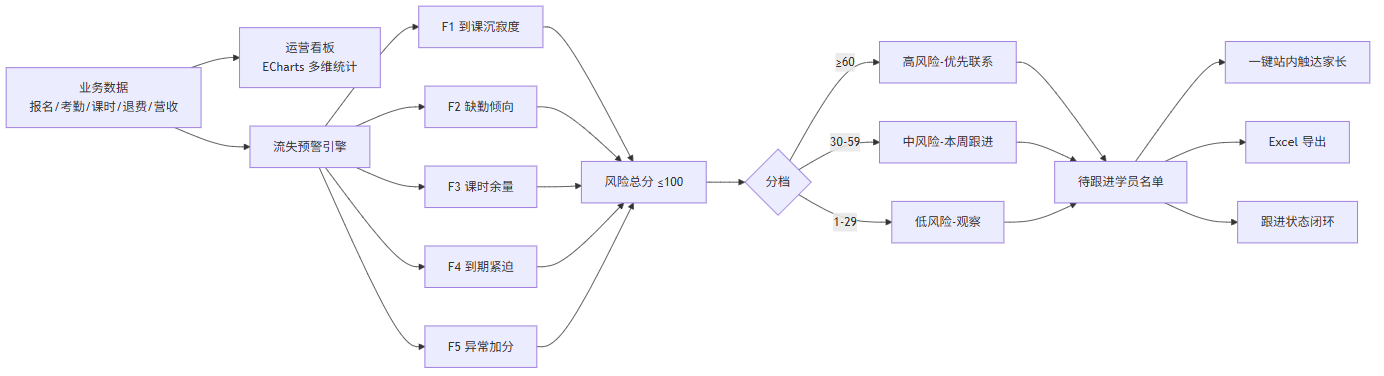
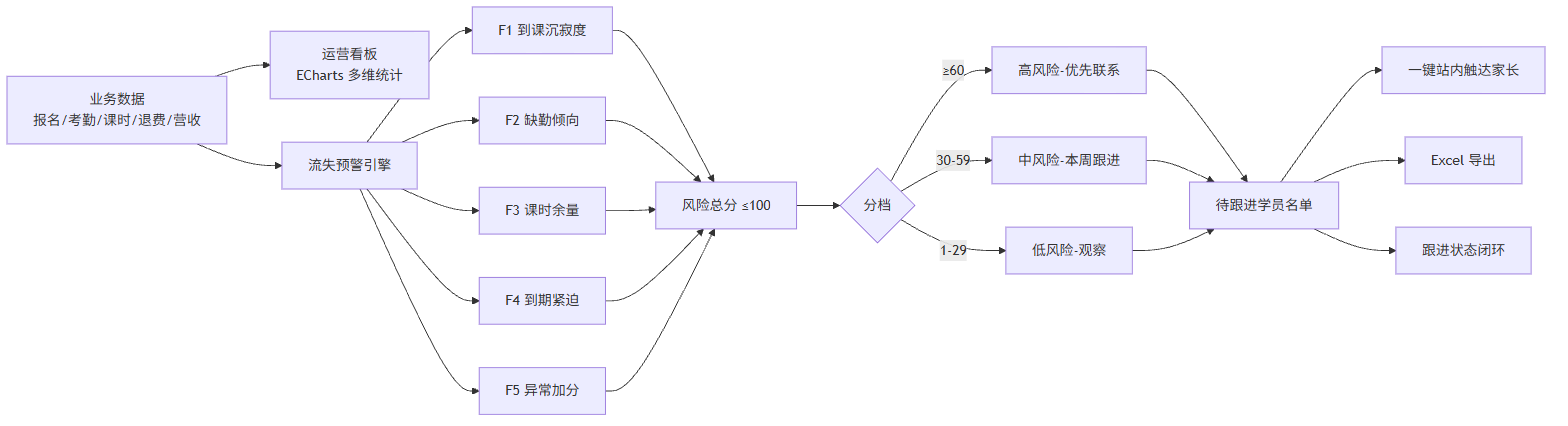
docs(paper): 课程设计报告 v1.3 同步 + 9 张配图重渲染
数据勘误（移动端测试 6->25、浏览器验收 69、部署系统 Ubuntu 26.04）；新增 2.5 系统部署架构与图 2.9；新增 3.7 移动端功能完善；新增 4.1 浏览器 AI 验收方法论；查重三段改写落地；fig2-1~2-9 统一为白底 2 倍缩放重渲染，fig2-4 图源由四维改为五维。

diff --git a/docs/paper/01-摘要与第1章-技术介绍及选型.md b/docs/paper/01-摘要与第1章-技术介绍及选型.md
@@ -6,7 +6,7 @@
 
 针对上述问题，本文设计并实现了面向艺术、兴趣类培训机构的全流程教务管理平台。系统采用前后端分离的 B/S 架构，管理后台基于 Vue 3 与 Element Plus 构建，移动端基于 uni-app 跨平台框架实现，后端采用 Spring Boot 3.2.5 与 MyBatis-Plus 3.5.7 提供统一业务接口，数据存储于 MySQL 8.0。系统覆盖招生报名、课程班级管理、智能排课与调课、课堂考勤、课时自动扣减、收费退费、教师薪资自动核算与运营数据统计的完整业务闭环，支持学员家长、授课教师、教务管理员、财务管理员与超级管理员五类角色协同工作。系统实现了基于多因子评分的学员流失预警模型，并以版本化迁移、加密备份、发布门禁与业务可观测性等手段保障系统的可靠性与安全性。
 
-系统采用 JUnit 5、Mockito 与 Vitest 建立分层测试体系，后端 464 个单元测试、管理端 118 个与移动端 6 个测试全部通过，并经浏览器验收确认主要业务流程可用。测试结果表明系统功能完备、并发控制可靠、权限隔离正确，能够满足艺术培训机构数字化教务管理需求。
+系统采用 JUnit 5、Mockito 与 Vitest 建立分层测试体系，后端 464 个单元测试、管理端 118 个与移动端 25 个测试全部通过，并经 69 条浏览器自动化验收用例确认五类角色主要业务流程可用。在完成测试验收后，系统已以容器化方式部署上线并在生产环境稳定运行。测试与运行结果表明系统功能完备、并发控制可靠、权限隔离正确，能够满足艺术培训机构数字化教务管理需求。
 
 **关键词**：教务管理；智能排课；课时管控；薪资核算；流失预警
 
@@ -18,7 +18,7 @@ With the rapid development of the art training industry, training institutions g
 
 To address these problems, this paper designs and implements a full-process educational administration management platform for art training institutions. The system adopts a front-end and back-end separated B/S architecture. The management console is built with Vue 3 and Element Plus, the mobile terminal is implemented with the uni-app cross-platform framework, and the back end uses Spring Boot 3.2.5 and MyBatis-Plus 3.5.7 to provide unified business APIs, with data stored in MySQL 8.0. The system covers a complete business closed loop including enrollment and payment, course and class management, intelligent scheduling and adjustment, class attendance, automatic lesson deduction, charges and refunds, automatic teacher salary accounting, and operational statistics, supporting collaboration among five roles: parents, teachers, educational administrators, financial administrators and super administrators. A multi-factor student churn warning model is implemented, and the reliability and security of the system are guaranteed by versioned database migration, encrypted backup, release gates and business observability.
 
-A layered testing system is established with JUnit 5, Mockito and Vitest. All 464 back-end unit tests, 118 admin-web tests and 6 mobile tests pass, and browser acceptance confirms that the main business processes are usable. Test results show that the system is functionally complete, reliable in concurrency control and correct in permission isolation, and can satisfy the digital educational administration needs of art training institutions.
+A layered testing system is established with JUnit 5, Mockito and Vitest. All 464 back-end unit tests, 118 admin-web tests and 25 mobile tests pass, and 69 browser-automation acceptance cases confirm that the main business processes of the five roles are usable. After acceptance testing, the system has been deployed and running in a production environment in a containerized manner. Test and operation results show that the system is functionally complete, reliable in concurrency control and correct in permission isolation, and can satisfy the digital educational administration needs of art training institutions.
 
 **Keywords**: Educational Administration; Intelligent Scheduling; Lesson Management; Salary Accounting; Churn Warning
 
@@ -30,27 +30,27 @@ A layered testing system is established with JUnit 5, Mockito and Vitest. All 46
 
 ### 1.1.1 前端框架 Vue 3 与 Element Plus
 
-Vue 3 是当前主流的渐进式前端框架，采用组合式 API（Composition API）与响应式数据模型，配合 Vite 开发服务器可实现模块热更新与快速构建。Element Plus 是基于 Vue 3 的桌面端组件库，提供表格、表单、弹窗、分页、日期选择等企业级组件，能够有效支撑教务、财务等管理场景下复杂表格与表单的快速开发。本系统管理后台采用 Vue 3 + Element Plus + Pinia 状态管理 + TypeScript 的组合，其中 Pinia 负责登录态、角色权限等全局状态的管理，TypeScript 为复杂数据模型提供静态类型保障。
+本系统选用 Vue 3 构建管理后台，主要面向课程、排课、财务等数据密集型页面。Vue 3 作为渐进式前端框架，其组合式 API（Composition API）与响应式数据模型更适合本系统横跨教务、财务多业务域时的复杂状态组织与逻辑复用，配合 Vite 开发服务器可获得模块热更新与快速构建体验。在此基础上，本系统选用 Element Plus 作为桌面端组件库，其表格、表单、弹窗、分页与日期选择等企业级组件契合中后台交互模式，有效支撑教务、财务等管理场景下复杂表格与表单的快速开发。管理后台整体采用 Vue 3 + Element Plus + Pinia 状态管理 + TypeScript 的组合，其中 Pinia 负责登录态、角色权限等全局状态的管理，TypeScript 为复杂数据模型提供静态类型保障。
 
 ### 1.1.2 跨平台框架 uni-app
 
-uni-app 是一套使用 Vue 语法开发跨平台应用的框架，一套代码可编译运行到 H5、微信小程序与 Android/iOS App 等多个平台。对于家长端与教师端这类以移动端高频轻量操作为主的场景，uni-app 能够显著降低多端重复开发成本。本系统移动端基于 uni-app 与 uView Plus 组件库实现家长端与教师端页面，业务规则统一由后端接口提供，保证各端数据一致。
+本系统选用 uni-app 实现移动端家长端与教师端。移动端使用者以学员家长与授课教师为主，其场景集中在课表查看、报名缴费、考勤打卡与消息接收等高频轻量操作，uni-app 以一套 Vue 语法代码即可编译运行到 H5、微信小程序与 Android/iOS App 等多个平台，能够显著降低多端重复开发成本。本系统移动端基于 uni-app 与 uView Plus 组件库实现家长端与教师端页面，业务规则统一由后端接口提供，两端口径一致，避免业务规则在移动端重复实现。
 
 ### 1.1.3 后端框架 Spring Boot 与 MyBatis-Plus
 
-Spring Boot 是当前主流的 Java 后端快速开发框架，遵循"约定优于配置"理念，通过自动装配与起步依赖大幅简化项目搭建。Spring Boot 3.2.5 基于 JDK 17，内置嵌入式 Web 容器，支持构建可独立运行的 JAR 包。MyBatis-Plus 是 MyBatis 的增强工具，在保留 MyBatis 灵活 SQL 能力的同时，提供通用 CRUD、逻辑删除、乐观锁、分页插件等开箱即用的能力，可有效减少业务层样板代码。本系统利用 MyBatis-Plus 的逻辑删除与乐观锁机制支撑课时账户、退费审核等关键数据的并发安全。
+本系统选用 Spring Boot 3.2.5 作为后端开发框架。Spring Boot 遵循"约定优于配置"理念，通过自动装配与起步依赖大幅简化工程搭建，其内置嵌入式 Web 容器支持构建可独立运行的 JAR 包，便于本系统以容器镜像方式进行生产化部署；Spring Boot 3.2.5 基于 JDK 17，生态成熟，可支撑定时任务、事件机制以及 Actuator 健康检查与指标暴露等能力，为本系统的业务调度、发布探针与可观测性建设提供基础。在持久层，本系统选用 MyBatis-Plus 3.5.7：它在保留 MyBatis 灵活 SQL 能力的同时，提供通用 CRUD、逻辑删除、乐观锁、分页插件等开箱即用的能力，可有效减少业务层样板代码。本系统利用 MyBatis-Plus 的逻辑删除与乐观锁机制，支撑课时账户、退费审核与薪资流转等关键数据的并发安全。
 
 ### 1.1.4 数据库 MySQL
 
-MySQL 是应用广泛的开源关系型数据库，支持 InnoDB 事务引擎与行级锁，具备良好的事务一致性与并发控制能力。本系统采用 MySQL 8.0 存储业务数据，共设计 37 张表覆盖用户权限、学员课程、排课调课、考勤学情、课时流水、财务薪资、考级通知与运营管理八大业务域。数据库结构变更通过 Flyway 版本化迁移管理，保证多环境数据库状态的一致性。
+本系统选用 MySQL 8.0 存储业务数据。MySQL 支持 InnoDB 事务引擎与行级锁，具备良好的事务一致性与并发控制能力，契合教务业务中课时扣减、退费回冲与薪资结算等操作对数据一致性的要求。本系统共设计 37 张表，覆盖用户权限、学员课程、排课调课、考勤学情、课时流水、财务薪资、考级通知与运营管理八大业务域；数据库结构变更通过 Flyway 版本化迁移管理，保证开发、测试与生产环境的数据库状态一致。
 
 ### 1.1.5 认证与安全技术 JWT
 
-JWT（JSON Web Token）是一种无状态的身份认证方案，服务端在登录成功后签发包含用户标识与角色信息的签名令牌，客户端在后续请求中携带该令牌，服务端验签后即可确认身份。相比传统 Session 方案，JWT 天然适合前后端分离架构与移动端场景。本系统使用 HMAC-SHA256 算法对 JWT 进行签名，通过自定义拦截器统一完成令牌校验与基于角色的接口鉴权。
+本系统选用 JWT 作为身份认证方案。本系统采用前后端分离架构，并区分管理后台与移动端两类客户端，JWT 作为无状态认证方案，由服务端在登录成功后签发包含用户标识与角色信息的签名令牌，客户端在后续请求中携带该令牌、服务端验签后即可确认身份，天然适合本系统的多端场景，无需在服务端维护会话状态。本系统使用 HMAC-SHA256 算法对 JWT 进行签名，通过自定义拦截器统一完成令牌校验与基于角色的接口鉴权，实现五类角色的权限隔离。
 
 ### 1.1.6 数据可视化与报表技术 ECharts、Apache POI
 
-ECharts 是基于 JavaScript 的开源可视化图表库，提供折线图、柱状图、饼图等丰富图表类型。本系统使用 ECharts 在运营数据看板中呈现月度课时趋势、营收趋势与到课率趋势等统计图表。Apache POI 是 Java 处理 Office 文档的开源类库，本系统基于其 SXSSF 组件实现收费台账、课时消耗、薪资结算等报表的 Excel 导出。
+本系统选用 ECharts 与 Apache POI 支撑运营看板的可视化呈现与报表导出。ECharts 是基于 JavaScript 的开源可视化图表库，提供折线图、柱状图、饼图等丰富图表类型，本系统使用其在运营数据看板中呈现月度课时趋势、营收趋势与到课率趋势等统计图表；Apache POI 是 Java 处理 Office 文档的开源类库，本系统基于其 SXSSF 组件（面向大数据量导出的流式写入方式）实现收费台账、课时消耗、薪资结算与流失预警名单等报表的 Excel 导出。
 
 ## 1.2 技术选型
 
@@ -58,19 +58,19 @@ ECharts 是基于 JavaScript 的开源可视化图表库，提供折线图、柱
 
 ### （1）前端：Vue 3 + Element Plus（管理后台）与 uni-app（移动端）
 
-选择 Vue 3 作为管理后台基础框架，主要基于以下考虑：其一，Vue 3 的组合式 API 相比选项式 API 更适合复杂业务逻辑的组织与复用，配合 TypeScript 可显著提升可维护性；其二，Element Plus 组件库与后台管理系统常见的中后台交互模式高度契合，可快速搭建课程管理、排课、财务等数据密集型页面；其三，Vue 3 与 Vite 构建工具的搭配能提供流畅的开发体验。
+选择 Vue 3 作为管理后台基础框架，主要基于以下考虑：其一，Vue 3 的组合式 API 相比选项式 API 更适合复杂业务逻辑的组织与复用，本系统的排课大课表、薪资核算等页面需在单一页面内管理课次、教师、教室与金额等多组联动状态，组合式 API 配合 TypeScript 可显著提升这类页面的可维护性；其二，Element Plus 组件库与后台管理系统常见的中后台交互模式高度契合，本系统课程管理、排课、财务等数据密集型页面正是依托其表格、分页、日期选择等组件快速搭建；其三，Vue 3 与 Vite 5 构建工具的搭配能提供流畅的开发体验。
 
-移动端选择 uni-app，主要基于以下考虑：首先，家长与教师的使用场景以移动端高频轻量操作为主，uni-app 支持一套代码同时发布 H5 与微信小程序，覆盖成本低；其次，uni-app 使用 Vue 语法，与团队的技术栈保持一致，降低学习与维护成本；最后，家长端与教师端通过统一的后端接口与 Web 管理后台交互，避免业务规则在两端重复实现。
+移动端选择 uni-app，主要基于以下考虑：首先，家长与教师的使用场景以移动端高频轻量操作为主，uni-app 支持一套代码同时发布 H5 与微信小程序，覆盖成本低；其次，uni-app 使用 Vue 语法，与本系统管理后台的技术栈保持一致，降低学习与维护成本；最后，家长端与教师端通过统一的后端接口与 Web 管理后台交互，本系统的报名决策快照、请假审批状态等业务规则仅在后端实现一次，避免业务规则在两端重复实现以及由此产生的数据口径不一致。
 
 ### （2）后端：Spring Boot + MyBatis-Plus
 
-选择 Spring Boot 作为后端开发框架，主要基于以下考虑：首先，Spring Boot"约定优于配置"的开发模式能大幅减少配置样板代码，通过起步依赖与自动装配快速完成工程搭建；其次，Spring Boot 3.x 基于 JDK 17，生态成熟，提供定时任务、事件机制、Actuator 健康检查与指标暴露等能力，为业务调度、发布探针与可观测性建设提供支持；最后，其内置 Web 容器使系统可以构建为独立运行的 JAR 包，便于容器化部署。
+选择 Spring Boot 作为后端开发框架，主要基于以下考虑：首先，Spring Boot"约定优于配置"的开发模式能大幅减少配置样板代码，通过起步依赖与自动装配快速完成工程搭建；其次，Spring Boot 3.x 基于 JDK 17，生态成熟，提供定时任务、事件机制、Actuator 健康检查与指标暴露等能力，本系统的流失预警定时统计、发布健康探针与业务可观测性正是基于这些能力建设；最后，其内置 Web 容器使系统可以构建为独立运行的 JAR 包，便于以容器镜像方式进行生产化部署，本系统生产环境即以上述 JAR 容器方式运行。
 
-在持久层框架方面，选择 MyBatis-Plus 作为 ORM 框架，主要基于以下考虑：MyBatis-Plus 在保留手写 SQL 灵活性的同时，提供通用 CRUD、逻辑删除、乐观锁、分页插件等能力，能够显著减少数据访问层样板代码；其乐观锁机制为本系统课时扣减、薪资结算等"读-改-写"型并发操作提供了统一的并发控制手段。
+在持久层框架方面，选择 MyBatis-Plus 作为 ORM 框架，主要基于以下考虑：MyBatis-Plus 在保留手写 SQL 灵活性的同时，提供通用 CRUD、逻辑删除、乐观锁、分页插件等能力，能够显著减少数据访问层样板代码；其乐观锁机制为本系统课时扣减、快速调课、薪资结算等"读-改-写"型并发操作提供了统一的并发控制手段——本系统快速调课即在乐观更新条件中追加"原日期与原起止时间"，解决了同状态并发编辑相互覆盖的问题。
 
 ### （3）数据库：MySQL 8.0
 
-选择 MySQL 作为数据库管理系统，主要基于以下考虑：首先，MySQL 作为开源数据库无需许可费用，成本可控；其次，MySQL 在 Web 应用中生态成熟，InnoDB 引擎的事务与行级锁能力满足教务业务对数据一致性的要求；最后，本系统单机部署的规模下，MySQL 的性能与运维复杂度均处于合适区间，配合 Flyway 可实现对 37 张表结构的版本化管理。
+选择 MySQL 作为数据库管理系统，主要基于以下考虑：首先，MySQL 作为开源数据库无需许可费用，成本可控；其次，MySQL 在 Web 应用中生态成熟，InnoDB 引擎的事务与行级锁能力满足教务业务对数据一致性的要求；最后，本系统单机部署的规模下，MySQL 的性能与运维复杂度均处于合适区间，配合 Flyway 可实现对 37 张表结构的版本化管理，本系统生产环境即通过 Flyway 完成基线建立与增量迁移。
 
 ### （4）辅助技术
 
@@ -80,10 +80,10 @@ ECharts 是基于 JavaScript 的开源可视化图表库，提供折线图、柱
 
 ② 状态管理：管理后台使用 Pinia 管理登录用户信息、角色码与权限集，页面依据角色动态渲染可操作入口，实现前后端双重的权限控制；
 
-③ 数据库迁移：使用 Flyway 对数据库结构变更进行版本化管理，生产环境启动时自动执行迁移脚本，保证开发、测试与生产环境的数据库结构一致；
+③ 数据库迁移：使用 Flyway 对数据库结构变更进行版本化管理，生产环境启动时自动执行迁移脚本，本系统生产环境据以完成基线版本建立与增量迁移，保证开发、测试与生产环境的数据库结构一致；
 
 ④ 可视化与导出：使用 ECharts 呈现运营统计图表，使用 Apache POI（SXSSF）实现收费台账、课时消耗、薪资结算与流失预警名单的 Excel 报表导出；
 
 ⑤ 开发与构建工具：后端使用 Maven 3.9 管理依赖与构建，管理后台使用 Vite 5 与 npm 完成开发与构建，移动端使用 uni-app CLI 构建 H5 与小程序产物；
 
-⑥ 测试工具：后端使用 JUnit 5 与 Mockito 建立单元测试体系，管理后台使用 Vitest 与 Vue Test Utils 建立组件测试体系，移动端使用 Vitest 对报名决策等核心逻辑进行测试。
+⑥ 测试工具：后端使用 JUnit 5 与 Mockito 建立单元测试体系，管理后台使用 Vitest 与 Vue Test Utils 建立组件测试体系，移动端使用 Vitest 对报名决策快照、课表摘要、请假状态与未读角标等核心纯逻辑进行测试。

diff --git a/docs/paper/03-第3章-系统功能实现.md b/docs/paper/03-第3章-系统功能实现.md
@@ -44,7 +44,7 @@ public ParentEnrollmentSnapshotVO getParentEnrollmentSnapshot(Long parentUserId,
 
 ### 3.2.1 智能排课与冲突检测
 
-教务管理员创建课程、班级与课节时段后，可对班级执行批量排课（按班级上课频次批量生成课次）或自动排课（根据教室、教师、班级的空闲时间自动安排课次）。系统提供独立的冲突检测服务，从教师（同一教师同一时间冲突）、教室（同一教室同一时间冲突）、班级（同一班级同一时间冲突）与学员（学员跨班时间冲突）四个维度进行检测，冲突结果以中文提示返回前端即时展示。
+教务管理员创建课程、班级与课节时段后，可对班级执行批量排课（按班级上课频次批量生成课次）或自动排课（根据教室、教师、班级的空闲时间自动安排课次）。系统提供独立的冲突检测服务，从教师（同一教师同一时间冲突）、教室（同一教室同一时间冲突）、教室预约（与考试、教研活动等非常规占用冲突）、班级（同一班级同一时间冲突）与跨班学员（学员跨班时间冲突）五个时间交叉维度进行检测，冲突结果以中文提示返回前端即时展示。
 
 排课管理页面与大课表页面如图 3.4、图 3.5 所示。
 
@@ -178,12 +178,90 @@ private int scoreF1(RiskStudentFacts facts) {
 }
 ```
 
-流失预警面板作为运营看板的独立页签呈现，与月度流失率统计口径分离、互为补充。教务与超管视角看板界面如图 3.14、图 3.15 所示。
+流失预警面板作为运营看板的独立页签呈现，与月度流失率统计口径分离、互为补充。教务与超级管理员视角看板界面如图 3.14、图 3.15 所示。
 
 ![图3.14 教务视角运营看板](../evidence/2026-07-20/edu-admin-dashboard.png)
 
 图 3.14  教务视角运营看板界面
 
-![图3.15 超管视角运营看板](../evidence/2026-07-20/super-admin-dashboard.png)
+![图3.15 超级管理员视角运营看板](../evidence/2026-07-20/super-admin-dashboard.png)
 
 图 3.15  超级管理员视角运营看板界面
+
+## 3.7 移动端功能完善
+
+管理后台功能成型后，系统在迭代优化中着重补齐移动端的能力与信息丰富度，使学员家长与授课教师能将移动端作为日常主入口。本节的四项完善均以"补齐移动端旅程断点、提升家长端与教师端信息对等度"为出发点。
+
+### 3.7.1 教师端学员请假审批
+
+家长端此前已支持提交学员请假申请，但请假申请只能由教务管理员在管理后台处理，授课教师在移动端没有审批入口，形成"家长能提交、教师不能处理"的旅程断点；而后端其实已经具备面向教师的请假查询与审批接口，只是移动端未加消费，属于"接口已备、入口缺失"的功能空洞。为打通"家长提交请假 → 教师审批 → 家长可见结果"的完整旅程，系统在移动端为授课教师补齐了请假审批能力。
+
+教师端新增"学员请假审批"页：进入页面后拉取本班学员的请假列表，列表项展示学员姓名、请假日期、请假原因与状态标签；对处于"待审核"状态的申请，教师可执行"通过"或"驳回"操作，驳回时填写备注（不超过 200 字）。审批的安全性由后端保证：查询接口仅返回该教师授课班级内、在班学员的请假记录，审批接口在更新前二次校验"该教师确在学员请假日期有授课课次"，越权审批会被拒绝；审批本身采用乐观条件更新（仅待审核记录可被更新），并发重复审批时更新行数为 0 并返回冲突提示，避免同一申请被重复处理。审批通过后，家长端该条请假记录即显示"已通过"及备注。审批服务核心实现如下：
+
+```java
+// 教师审批：归属校验 + CAS(status=待审核) 防止重复处理
+int updated = leaveRequestMapper.update(null, new LambdaUpdateWrapper<LeaveRequest>()
+        .eq(LeaveRequest::getId, id)
+        .eq(LeaveRequest::getStatus, 1)            // 仅待审核可被处理
+        .set(LeaveRequest::getStatus, status)      // 2 通过 / 3 驳回
+        .set(LeaveRequest::getAuditUserId, teacherId)
+        .set(LeaveRequest::getAuditRemark, remark));
+if (updated == 0) {
+    throw new BusinessException(409, "该请假申请已被处理，请刷新后重试");
+}
+```
+
+### 3.7.2 课表 Tab 真实化与教师课表富信息
+
+移动端底部"课表"主 Tab 此前仅负责跳转、内容恒为"今天没有课程安排"，是一个高频入口的空壳页，与家长端、教师端已有的课表能力不对等；同时教师端课表页只显示"班级 ID / 教室 ID"这类裸编号，不显示课程名、班级名与状态，信息丰富度明显低于家长端课表。
+
+系统在迭代优化中将课表 Tab 重构为按角色自适应的真实课表页：家长进入时加载当前学员的课表，教师进入时加载本人授课课次，页面统一过滤出"今日及未来 7 天"的课次并按日期分组、今日课次高亮；有课时展示课程名、班级名、时间与状态，无课时展示真实空态并保留"查看完整课表"入口，不再出现恒显示无课的伪内容。教师端课表页同步补齐信息，展示课程名、班级名、教室名、上课时间与状态，移除裸编号展示，点击待上课课次可直接进入课堂考勤。为支撑教师课表的教室名展示，后端课次查询服务补充了教室名称回填（复用已有的教室数据访问），一处改动同时服务课表 Tab 与教师课表页。日期过滤与分组逻辑被抽离为可复用的纯函数，便于后续维护与测试。核心实现如下：
+
+```java
+// 课次展示信息回填：批量查询教室名，补齐 classroomName
+Map<Long, String> classroomNameMap = classroomIds.isEmpty() ? Collections.emptyMap()
+        : classroomMapper.selectBatchIds(classroomIds).stream()
+            .collect(Collectors.toMap(Classroom::getId, Classroom::getName, (a, b) -> a));
+// 遍历课次时逐一回填：
+lesson.setClassroomName(classroomNameMap.getOrDefault(lesson.getClassroomId(), ""));
+```
+
+```javascript
+// 课表日期分组（纯函数）：按 lessonDate 升序返回 [{ date, lessons }]
+export function groupLessonsByDate(lessons) {
+  const map = new Map()
+  for (const l of lessons) {
+    const d = String(l && l.lessonDate).substring(0, 10)
+    if (!map.has(d)) map.set(d, { date: d, lessons: [] })
+    map.get(d).lessons.push(l)
+  }
+  return Array.from(map.values()).sort((a, b) => (a.date < b.date ? -1 : a.date > b.date ? 1 : 0))
+}
+```
+
+### 3.7.3 消息未读角标
+
+移动端的调课通知、上课提醒、课时不足与机构公告等消息此前只能在进入消息中心后逐条查看，入口本身没有任何未读提示，用户容易错过关键提醒。
+
+系统为消息入口增加未读角标：移动端在首页与消息页显示时拉取当前用户的未读消息数，数量大于 0 时在"消息"Tab 上以数字红点展示（超过 99 显示"99+"），无未读时移除角标；用户打开消息中心或点开单条消息后重新拉取未读数，角标随之更新。未读数查询为全角色通用端点，家长、教师与教务共用同一实现。角标文案由独立纯函数负责，便于统一口径与测试，核心逻辑如下：
+
+```javascript
+// 未读角标文案与显示判定（纯函数）
+export function formatBadge(n) {
+  const num = Number(n) || 0
+  return num > 99 ? '99+' : String(num)
+}
+export function shouldShowBadge(n) {
+  return (Number(n) || 0) > 0
+}
+```
+
+### 3.7.4 家长端学情上下文补全
+
+家长端学情页此前在考勤记录中只显示"课次 ID"，家长看到的是没有业务含义的编号，无法判断孩子是在"哪一天、哪门课、哪个班"的表现如何。
+
+系统将家长端学情页的考勤行由展示课次编号改为展示后端已返回的课次上下文信息（格式为"班级 日期 时间"），家长可直观看到每一条考勤对应的具体课次；作业与评语在接口返回课程、日期信息时一并展示。该改动为纯前端展示层调整，业务数据口径与后端保持一致，不改变任何业务规则。
+
+### 3.7.5 移动端纯逻辑单元测试
+
+为延续系统的测试纪律，本次移动端补充/改动涉及的纯逻辑均被抽离为独立模块并配以单元测试，包括报名决策快照、课表摘要（日期过滤与分组）、请假状态文案与审批可操作性判定、未读角标文案与显示判定等，共同构成 4 个测试文件、25 个用例的移动端测试集，确保移动端的核心展示逻辑可回归、可验证。

diff --git a/docs/paper/04-第4章-测试与总结.md b/docs/paper/04-第4章-测试与总结.md
@@ -8,13 +8,15 @@
 
 | 项目 | 环境 |
 |------|------|
-| 操作系统 | Windows 11（开发）、Ubuntu 22.04（部署） |
+| 操作系统 | Windows 11（开发）、Ubuntu 26.04（部署） |
 | 后端运行环境 | JDK 17、Spring Boot 3.2.5 内置 Tomcat |
 | 数据库 | MySQL 8.0（生产）；H2（测试内存库） |
 | 前端 | Node.js 22、Vite 5 |
 | 单元测试框架 | JUnit 5 + Mockito + AssertJ（后端）；Vitest + Vue Test Utils（前端） |
 
 系统采用分层测试策略：后端对 20 个核心业务 Service 类实现全覆盖的 Mockito 单元测试，并引入 H2 内存数据库执行 Spring 上下文加载冒烟测试；管理后台对各页面组件与纯逻辑模块（排课拖拽逻辑、流失预警面板等）进行组件测试；移动端对报名决策快照等核心纯逻辑进行单元测试；此外通过自动化接口测试覆盖五类角色的授权端点与越权拒绝场景，并通过浏览器自动化执行主要业务流验收。
+
+在分层测试之外，系统在首次生产上线后组织了一轮面向真实部署环境的浏览器验收测试，用于验证五类角色在实际部署形态下的主要业务流程。该轮测试共设计 69 条用例，按优先级分为 P0（核心主流程）33 条、P1（重要功能）32 条、P2（增强项）4 条，覆盖登录与权限隔离、超级管理员、教务管理员、财务管理员、授课教师、学员家长、越权与安全以及移动端专项八个模块。测试方法遵循两条硬性约束：其一，测试手段限定为界面操作（打开页面、点击、输入、切换、拖拽、上传、截图），不允许以调用后端接口或直连数据库作为获取预期结果的手段，从而模拟真实用户的使用路径；其二，断言以视觉识别为主、DOM 定位为辅，判定结论以截图中可读到的文字、颜色、数值与元素可见性为准，而非依赖接口返回值。最终 69 条用例全部通过，覆盖率达 100%。为交叉验证写操作的真实效果，测试还通过数据库对新增缴费记录、课时流水、退费回滚与课时账户最终态等记录逐项对账，结果与界面表现完全吻合，证明系统的乐观并发控制与账实一致性符合预期。
 
 ## 4.2 系统功能测试
 
@@ -82,19 +84,19 @@
 |---------|------|:---:|:---:|
 | 后端单元测试 | 20 个核心业务 Service 全覆盖 | 464 | 全部通过 |
 | 管理后台组件测试 | 26 个测试文件 | 118 | 全部通过 |
-| 移动端逻辑测试 | 报名决策快照等 | 6 | 全部通过 |
+| 移动端逻辑测试 | 报名决策快照、课表摘要、请假状态、未读角标等纯逻辑 | 25 | 全部通过 |
 | 接口与权限测试 | 五角色授权矩阵 | 38（32 授权 + 6 越权） | 全部通过 |
-| 浏览器验收 | 主要业务流程 | — | 通过，无阻断问题 |
+| 浏览器验收 | 五角色主要业务流程（浏览器自动化 + 视觉断言） | 69 | 全部通过 |
 
-测试结果表明：系统功能完整覆盖任务书要求，报名审核、排课调课、考勤课时扣减、薪资核算与流失预警等核心业务正确；快速调课、退费、薪资流转等并发路径防护有效；五类角色权限隔离正确，越权访问被拒绝；系统可靠性机制（迁移、备份、发布门禁、可观测性）完备。系统达到可交付运行状态。
+测试结果表明：系统功能完整覆盖任务书要求，报名审核、排课调课、考勤课时扣减、薪资核算与流失预警等核心业务正确；快速调课、退费、薪资流转等并发路径防护有效；五类角色权限隔离正确，越权访问被拒绝；系统可靠性机制（迁移、备份、发布门禁、可观测性）完备。系统达到可交付运行状态，并已在生产环境完成容器化部署上线、持续稳定运行，实现了从开发、测试到上线运行的完整交付。
 
 # 总  结
 
-本次课程设计完成了基于 Vue 3 + uni-app + Spring Boot + MySQL 架构的艺术培训机构全流程教务管理平台的设计与实现。系统覆盖招生报名、课程班级、智能排课与调课、课堂考勤、课时自动扣减、收费退费、教师薪资自动核算、学情考级与运营数据统计的完整业务闭环，支持家长、教师、教务、财务与超级管理员五类角色协同工作，满足了艺术培训机构数字化教务管理的实际需求。
+本次课程设计完成了基于 Vue 3 + uni-app + Spring Boot + MySQL 架构的艺术培训机构全流程教务管理平台的设计与实现。系统覆盖招生报名、课程班级、智能排课与调课、课堂考勤、课时自动扣减、收费退费、教师薪资自动核算、学情考级与运营数据统计的完整业务闭环，支持学员家长、授课教师、教务管理员、财务管理员与超级管理员五类角色协同工作，满足了艺术培训机构数字化教务管理的实际需求。系统在完成功能开发与分层测试后，已通过容器化方式完成生产环境部署并稳定运行，实现了从需求分析、设计实现、测试验收到生产上线的完整交付。
 
 在系统设计与实现过程中，主要解决了以下几方面问题：其一，针对移动端报名场景的多接口串行请求与决策数据不一致问题，设计了"报名决策快照 + If-Match 版本校验"的一致性方案；其二，针对教务排课的易用性问题，实现了大课表拖拽快速调课，并通过"状态 + 旧时间"复合乐观条件解决了同状态并发编辑相互覆盖的问题；其三，针对教师薪资人工核算易错问题，建立了按课程薪资规则自动核算并配合状态机与并发控制的核算体系；其四，针对机构运营"只看历史、难防流失"的问题，实现了可解释的多因子流失预警引擎，将统计升级为决策；其五，引入 Flyway 版本化迁移、加密备份恢复、发布门禁与业务可观测性等手段，提升了系统的可靠性与可维护性。
 
-同时，系统仍存在一些不足之处。首先，在功能层面，当前支付与短信通知为模拟实现，尚未接入真实支付网关与短信服务商；其次，在性能层面，系统当前为单机部署，未引入缓存层，面对较大并发时存在优化空间；最后，在智能化层面，流失预警采用规则打分而非机器学习模型，后续可基于积累数据引入更精细的流失预测算法。上述不足将作为后续改进方向，不断完善系统功能与性能。
+同时，系统仍存在一些不足，这些不足同时也指明了后续的改进方向。首先，在功能层面，当前支付与短信通知为模拟实现，尚未接入真实支付网关与短信服务商；后续计划以适配器方式接入第三方支付网关与短信服务商，复用系统既有的通知外发通道抽象，使缴费与提醒由模拟转为真实投递。其次，在性能与架构层面，系统当前为单机部署，报名决策快照以 5 分钟 TTL 缓存在单机内存中，在多实例部署时无法共享；后续计划将快照缓存迁移至 Redis 分布式缓存，并配合共享并发控制支撑后端多实例水平扩展。最后，在智能化层面，流失预警当前为可解释的多因子规则打分而非机器学习模型；后续可基于系统持续积累的报名、考勤、课时与退费数据，在规则打分的基础上引入机器学习模型，实现更精细的流失预测，同时保留现有规则作为可解释的兜底。上述不足将作为后续改进方向，在保证系统稳定运行的前提下逐步完善。
 
 # 参考文献
 

diff --git a/docs/paper/07-校对与查重预检报告.md b/docs/paper/07-校对与查重预检报告.md
@@ -15,7 +15,7 @@
 
 ## 二、编号与格式核验（结果全部通过）
 
-- 图号连续性：图 2.1~2.8、图 3.1~3.15 全部连续无跳号
+- 图号连续性：图 2.1~2.9、图 3.1~3.15 全部连续无跳号（图 2.9 系统部署架构图为本轮新增）
 - 表号连续性：表 2.1~2.2、表 4.1~4.6、表 A.1~A.2 全部连续
 - 第 3 章 15 张截图路径全部有效（screenshots/ + evidence/2026-07-20/）
 - 参考文献 8 篇与任务书指定 8 篇**逐条一致**（作者/题名/来源/年份/页码），正文按引用语境映射到对应章节
@@ -52,5 +52,42 @@
 
 1. 用学校查重系统（知网/维普）跑 1 次预检 → 按报告 3.1 三段改写 → 再跑终检
 2. 排版阶段由 Word 模板补齐：封面、目录、页眉页脚、图题表题字体规范
-3. 图 2.1~2.8 已渲染 PNG（figures/）可直接嵌入；15 张截图在 screenshots/evidence 目录
+3. 图 2.1~2.9 为 Mermaid 成稿（排版阶段渲染/转图即可，图 2.9 为本轮新增部署架构图）；15 张截图在 screenshots/evidence 目录
 4. 全文约 2.2 万字符（约 1.6 万汉字），对照学院字数要求确认（示例体例一般 1.5-2 万字达标）
+
+## 五、本轮更新记录（2026-09-11）
+
+> 本轮为首次生产上线（2026-09-10）与浏览器 AI 验收测试（69 用例）后的资料同步更新，使论文与项目当前真实状态一致。
+
+### 5.1 数据勘误（与仓库实测对齐）
+
+| # | 文件 | 原文 → 改后 |
+|---|------|-------------|
+| 1 | 01 中文摘要 | 「移动端 6 个测试」→「移动端 25 个测试」；并补充「经 69 条浏览器自动化验收用例确认……」「已在生产环境稳定运行」 |
+| 2 | 01 ABSTRACT | 「6 mobile tests」→「25 mobile tests」；并补充 69 browser-automation acceptance cases 与生产部署说明 |
+| 3 | 04 表 4.6 | 移动端逻辑测试数量「6」→「25」，范围补充为「报名决策快照、课表摘要、请假状态、未读角标等纯逻辑」 |
+| 4 | 04 表 4.1 | 部署操作系统「Ubuntu 22.04」→「Ubuntu 26.04」 |
+
+> 移动端 25 个测试依据仓库实测：4 个测试文件（`enrollment-snapshot` / `leave-status` / `schedule-summary` / `unread-count`），覆盖报名决策快照与课表摘要、请假状态、未读角标等纯函数。
+
+### 5.2 新增内容（素材：deployment-2026-09-10、ui-test-report-final-2026-09-10、ui-test-plan-browser-ai-2026-09-10、v1.3 PRD/设计、README）
+
+| 位置 | 新增内容 |
+|------|---------|
+| 02 新增 §2.5 系统部署架构（含新图 2.9 系统部署架构图） | 容器化部署（MySQL 8.0 / Caddy / Web-nginx / 后端 JAR 四容器，Docker Compose 编排）、Flyway 版本化迁移（当前 V8）、生产实际运行；未涉任何 IP/密码/域名 |
+| 03 新增 §3.7 移动端功能完善（3.7.1~3.7.5） | 教师端学员请假审批、课表 Tab 真实化与教师课表富信息、消息未读角标、家长端学情上下文、移动端纯逻辑单元测试 |
+| 04 §4.1 新增浏览器 AI 验收测试方法段 | 69 用例（P0/P1/P2 = 33/32/4）、八模块覆盖、界面操作 + 视觉断言两条硬规则、数据库逐项对账 |
+| 04 表 4.6 | 浏览器验收数量「—」→「69」，范围明确为「五角色主要业务流程（浏览器自动化 + 视觉断言）」 |
+| 04 §4.4、总结章 | 补充「已在生产环境完成容器化部署上线、稳定运行，实现开发到上线的完整交付」 |
+| 06 图表清单 | 登记图 2.9；第 2 章 Mermaid 图数量 8→9；清理残留版本号口语「v1.2 新增」→「迭代新增」；补注 §3.7 移动端截图待补 |
+
+### 5.3 查重改写落地（对照 §3.1）
+
+| 报告条目 | 是否落地 | 说明 |
+|---------|:---:|------|
+| 3.1-1 第 1 章技术概念介绍段（1.1.1~1.1.6） | ✅ | 六段首句均改为「本系统选用 XX 用于 YY 场景」的选型驱动表述，概念定义压缩为从句，每段落到本项目真实用途 |
+| 3.1-2 第 1 章选型理由段（1.2） | ✅ | 保留「其一/其二/其三」体例，每条补充本项目专属论据（排课大课表与薪资核算页状态管理、报名决策快照与请假审批口径、流失预警定时统计与发布探针、快速调课复合乐观条件、Flyway 基线+增量迁移等） |
+| 3.1-3 总结章「不足与展望」段 | ✅ | 保留三层结构，补充本项目特有改进路径（报名决策快照 5 分钟 TTL 内存缓存 → Redis 分布式缓存 + 共享并发控制支撑多实例；规则打分的流失预警 → 在规则基础上引入机器学习并保留规则作可解释兜底；通知外发通道抽象 → 接入真实支付/短信） |
+
+> 说明：本轮改写仅调整表述方式与补充本项目论据，未损失原有技术信息量，未引入任何未实现功能（改进项均表述为后续方向）；全文未出现内部版本号口语（如「v1.2 版本」）。
+

diff --git a/docs/paper/02-第2章-系统设计.md b/docs/paper/02-第2章-系统设计.md
@@ -12,7 +12,7 @@
 flowchart TB
     subgraph Clients["客户端"]
         M[移动端 uni-app<br/>家长端 / 教师端]
-        A[管理后台 admin-web<br/>教务 / 财务 / 超管]
+        A[管理后台 admin-web<br/>教务 / 财务 / 超级管理员]
     end
     M --> N[Nginx / Caddy 反向代理<br/>HTTPS + JWT 鉴权]
     A --> N
@@ -59,7 +59,7 @@ flowchart LR
     P --> P2[授课教师端]
     P --> P3[教务管理端]
     P --> P4[财务管理端]
-    P --> P5[超管管理端]
+    P --> P5[超级管理员管理端]
     P1 --> P1a[报名缴费]
     P1 --> P1b[课表学情]
     P1 --> P1c[课时查询]
@@ -111,13 +111,13 @@ sequenceDiagram
 
 ### 2.3.2 排课与调课业务流程
 
-教务管理员创建班级后，可为班级批量生成课次，或基于教室、教师与班级的空闲情况执行自动排课；系统对教师、教室、班级、学员四个维度进行冲突检测，冲突课次会被即时提示。日常授课计划调整时，教务管理员可在周视图大课表上直接拖拽课次完成快速调课（仅限待上课且未开始的课次），系统以乐观并发控制防止多名教务同时操作同一课次造成相互覆盖；教师因个人原因需要调整课时时，通过移动端发起调课申请，教务管理员审批通过后生成调课记录。排课调课业务流程如图 2.4 所示。
+教务管理员创建班级后，可为班级批量生成课次，或基于教室、教师与班级的空闲情况执行自动排课；系统对教师、教室、教室预约（非常规占用）、班级、跨班学员五个时间交叉维度进行冲突检测，冲突课次会被即时提示。日常授课计划调整时，教务管理员可在周视图大课表上直接拖拽课次完成快速调课（仅限待上课且未开始的课次），系统以乐观并发控制防止多名教务同时操作同一课次造成相互覆盖；教师因个人原因需要调整课时时，通过移动端发起调课申请，教务管理员审批通过后生成调课记录。排课调课业务流程如图 2.4 所示。
 
 ```mermaid
 flowchart TB
     S[开始] --> C{创建班级与课节时段}
     C --> B[批量排课 / 自动排课]
-    B --> D[四维冲突检测<br/>教师/教室/班级/学员]
+    B --> D[五维冲突检测<br/>教师/教室/教室预约/班级/跨班学员]
     D -->|存在冲突| X[即时提示冲突原因]
     D -->|无冲突| E[生成课次]
     E --> R{需要调课?}
@@ -256,3 +256,28 @@ erDiagram
 ```
 
 图 2.8  核心实体关系（E-R）图
+
+## 2.5 系统部署架构
+
+系统采用容器化方式部署，生产环境通过 Docker Compose 编排四个容器：MySQL 8.0 数据库容器、Caddy 反向代理容器、承载前端静态资源并反向代理业务接口的 Web（nginx）容器，以及运行后端 JAR（JDK 17 运行时的应用容器）。外部请求首先到达 Caddy 容器，由 Caddy 反向代理至 Web 容器的 nginx；nginx 同时托管管理后台（部署于根路径）与移动端 H5（部署于 /mobile/ 子路径）的静态资源，并将业务接口（/api）以及健康检查、版本信息等端点反向代理至后端应用容器；后端应用容器访问 MySQL 容器完成数据读写，业务数据与数据库结构分别由初始化脚本与 Flyway 版本化迁移管理（当前迁移版本为 V8）。数据库数据与上传附件通过数据卷持久化，各容器均配置为随宿主机重启自动拉起。
+
+数据库结构由 Flyway 版本化迁移统一管理，生产环境首次部署时以建表脚本建立基线版本，再按序执行增量迁移脚本（V6 高价值查询索引、V7 单待审核退费约束、V8 流失预警跟进表），保证开发、测试与生产环境的数据库结构一致。系统部署架构如图 2.9 所示。
+
+```mermaid
+flowchart TB
+    U[客户端浏览器<br/>管理后台 / 移动端 H5]
+    subgraph Host[生产服务器 · Docker Compose 编排]
+        C[Caddy 反向代理容器<br/>监听 80 / 443]
+        W[Web 容器 nginx<br/>托管管理后台与移动端 H5 静态资源]
+        B[后端应用容器<br/>Spring Boot JAR / JDK 17]
+        DB[(MySQL 8.0 容器<br/>数据卷持久化)]
+        FS[(本地文件存储<br/>uploads 数据卷)]
+    end
+    U -->|HTTP / HTTPS| C
+    C --> W
+    W -->|业务接口 /api| B
+    B --> DB
+    B --> FS
+```
+
+图 2.9  系统部署架构图

diff --git a/docs/paper/06-图表清单.md b/docs/paper/06-图表清单.md
@@ -1,7 +1,7 @@
 # 论文图表清单（供 Word 排版阶段制图）
 
 > 用途：论文全部图表编号、位置与制图状态一览。
-> 状态说明：第 2 章 8 张结构/流程/时序图已用 **Mermaid 语法内嵌成稿**（02 文件内可直接渲染）；第 3 章 15 张界面图为**真实截图引用**；表格已内嵌正文。
+> 状态说明：第 2 章 9 张结构/流程/时序图已用 **Mermaid 语法内嵌成稿**（02 文件内可直接渲染）；第 3 章 15 张界面图为**真实截图引用**；表格已内嵌正文。
 
 ## 第 2 章系统设计（Mermaid 已成稿，排版时渲染/转图）
 
@@ -15,8 +15,9 @@
 | 图2.6 | 薪资核算状态流转图 | 状态图 | ✅ Mermaid 成稿 |
 | 图2.7 | 运营统计与流失预警流程图 | 流程图 | ✅ Mermaid 成稿 |
 | 图2.8 | 核心实体关系（E-R）图 | E-R 图 | ✅ Mermaid 成稿 |
+| 图2.9 | 系统部署架构图 | 容器部署架构图 | ✅ Mermaid 成稿 |
 
-> 渲染方式：VS Code 安装 Mermaid 插件 / Typora / mermaid.live 导出 PNG/SVG 后替换入 Word。图中术语与正文一致。
+> 渲染方式：9 张图已统一渲染为 PNG（`figures/fig2-1.png` ~ `fig2-9.png`，白底、2 倍缩放），可直接嵌入 Word；如需调整，修改对应 `.mmd` 源文件后重新渲染即可（VS Code Mermaid 插件 / Typora / mermaid.live）。图中术语与正文一致。
 
 ## 第 3 章系统功能实现（截图类已引用，共 15 图）
 
@@ -36,9 +37,9 @@
 | 图3.12 | 考级管理界面 | docs/screenshots/考级管理.png |
 | 图3.13 | 运营看板界面 | docs/screenshots/运营看板.png |
 | 图3.14 | 教务视角运营看板 | docs/evidence/2026-07-20/edu-admin-dashboard.png |
-| 图3.15 | 超管视角运营看板 | docs/evidence/2026-07-20/super-admin-dashboard.png |
+| 图3.15 | 超级管理员视角运营看板 | docs/evidence/2026-07-20/super-admin-dashboard.png |
 
-> 注：流失预警面板（v1.2 新增）暂无独立截图，可在排版阶段从运行系统补截；考级成绩/成长档案页可补截家长端学情页。
+> 注：流失预警面板与 §3.7 移动端新功能（教师请假审批、课表 Tab、消息角标、学情上下文）暂无独立截图，可在排版阶段从运行系统补截；考级成绩/成长档案页可补截家长端学情页。
 
 ## 表格清单（正文已内置）
 

diff --git a/docs/paper/05-附录A-软件使用说明书.md b/docs/paper/05-附录A-软件使用说明书.md
@@ -15,7 +15,7 @@
 
 | 类别 | 软件 | 版本 |
 |------|------|------|
-| 操作系统 | Windows / Linux / macOS | Windows 10+ 或 Ubuntu 22.04 |
+| 操作系统 | Windows / Linux / macOS | Windows 10+ 或 Ubuntu 22.04+ |
 | 后端运行 | JDK | 17 |
 | 数据库 | MySQL | 8.0+（端口 3306） |
 | 构建工具 | Maven | 3.9+ |
@@ -67,7 +67,7 @@ java -jar eduadmin.jar --server.port=8080
 
 | 终端 | 访问方式 | 说明 |
 |------|---------|------|
-| 管理后台 | 浏览器访问管理端地址 | 教务/财务/超管使用 |
+| 管理后台 | 浏览器访问管理端地址 | 教务/财务/超级管理员使用 |
 | 移动端 H5 | 浏览器访问移动端地址 | 家长/教师使用 |
 
 演示账号如表 A.2 所示。
